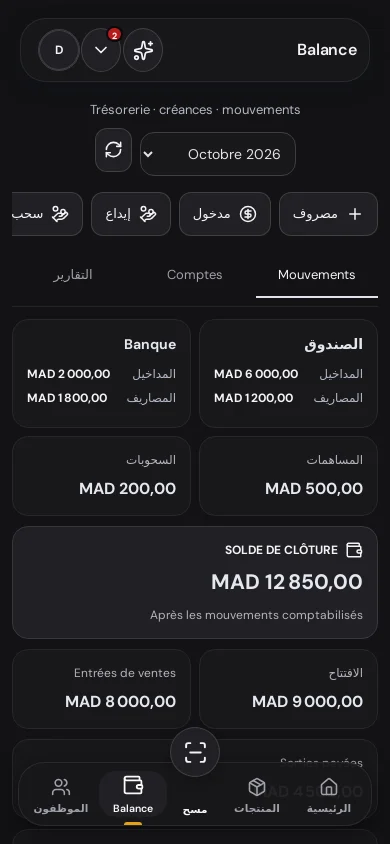
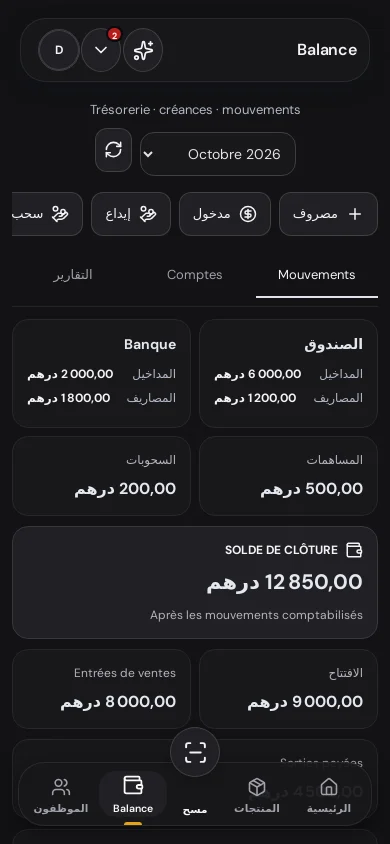
Improve Arabic landing translations and mobile login flow

diff --git a/src/i18n/messages.ts b/src/i18n/messages.ts
@@ -673,4 +673,109 @@ export const MESSAGES: ReadonlyArray<readonly [string, string, string]> = [
   ["Rechercher nom, SKU…", "Search name, SKU…", "البحث بالاسم أو رمز المنتج…"],
   ['Atlas', 'Atlas', 'أطلس'],
   ['Atlas Commerce', 'Atlas Commerce', 'أطلس كوميرس'],
+  // Public landing page and previews
+  ["Votre commerce,", "Your business,", "تجارتك،"],
+  ["en toute clarté.", "in clear view.", "بكل وضوح."],
+  ["Stock, ventes, factures et rapports : retrouvez les outils de votre activité dans un espace commun, sur le web, Android et bureau.", "Stock, sales, invoices and reports: find the tools for your business in one place on web, Android and desktop.", "المخزون والمبيعات والفواتير والتقارير: أدوات نشاطك في مكان واحد على الويب وأندرويد وسطح المكتب."],
+  ["Télécharger pour", "Download for", "تنزيل لـ"],
+  ["Toutes les versions bureau", "All desktop versions", "جميع إصدارات سطح المكتب"],
+  ["Découvrir les fonctionnalités", "Explore features", "اكتشف المزايا"],
+  ["Gratuit · open source (MIT) · aussi sur", "Free · open source (MIT) · also on", "مجاني · مفتوح المصدر (MIT) · متاح أيضاً على"],
+  ["et", "and", "و"],
+  ["Interfaces web sur ordinateur et mobile · données fictives de démonstration", "Web interfaces on desktop and mobile · fictional demonstration data", "واجهات الويب على الكمبيوتر والهاتف · بيانات تجريبية وهمية"],
+  ["Stock & scan", "Stock & scanning", "المخزون والمسح"],
+  ["Suivez vos produits et vos mouvements.", "Track your products and stock movements.", "تابع منتجاتك وحركات المخزون."],
+  ["Vente & facturation", "Sales & invoicing", "المبيعات والفوترة"],
+  ["Du comptoir aux documents commerciaux.", "From the counter to business documents.", "من نقطة البيع إلى المستندات التجارية."],
+  ["Sur vos appareils", "On your devices", "على أجهزتك"],
+  ["Web, Android et application bureau.", "Web, Android and desktop app.", "الويب وأندرويد وتطبيق سطح المكتب."],
+  ["Un projet ouvert que vous pouvez explorer.", "An open project you can explore.", "مشروع مفتوح يمكنك استكشافه."],
+  ["01 / VOTRE ACTIVITÉ", "01 / YOUR BUSINESS", "01 / نشاطك"],
+  ["Les outils essentiels, réunis dans Atlas.", "Essential tools, together in Atlas.", "الأدوات الأساسية، مجتمعة في أطلس."],
+  ["Du catalogue à la facture, retrouvez les informations utiles à chaque étape de votre journée.", "From catalogue to invoice, find useful information at every step of your day.", "من الكتالوج إلى الفاتورة، اعثر على المعلومات المهمة في كل خطوة من يومك."],
+  ["Stock en temps réel", "Real-time stock", "المخزون لحظة بلحظة"],
+  ["Consultez l’inventaire, les seuils et les mouvements de vos produits.", "View inventory, thresholds and product movements.", "اطّلع على المخزون والحدود وحركات المنتجات."],
+  ["Caisse & ventes", "Till & sales", "الصندوق والمبيعات"],
+  ["Ventes comptoir, tickets, règlements partiels et clôture de caisse sans saisie double.", "Counter sales, tickets, partial payments and till closing without duplicate entry.", "مبيعات المتجر والإيصالات والدفعات الجزئية وإغلاق الصندوق دون إدخال مكرر."],
+  ["Facturation PDF", "PDF invoicing", "الفوترة بصيغة PDF"],
+  ["Devis, factures et reçus en PDF propres, avec QR de vérification publique.", "Clean PDF quotes, invoices and receipts with public QR verification.", "عروض الأسعار والفواتير والإيصالات بصيغة PDF مع رمز تحقق عام."],
+  ["Créances & relances", "Receivables & reminders", "المستحقات والتذكيرات"],
+  ["Balance âgée, clients à relancer et historique de paiement — sans Post-it.", "Aged balances, customers to follow up and payment history — without sticky notes.", "أعمار الديون والعملاء المطلوب متابعتهم وسجل الدفعات في مكان واحد."],
+  ["Vérification par QR", "QR verification", "التحقق برمز QR"],
+  ["Vos clients scannent et vérifient l’authenticité d’un reçu en une seconde.", "Your customers can scan and verify a receipt in seconds.", "يمكن لعملائك مسح الإيصال والتحقق من صحته في ثوانٍ."],
+  ["Agent IA intégré", "Built-in AI agent", "وكيل ذكاء اصطناعي مدمج"],
+  ["Posez vos questions en français et explorez vos données selon vos permissions. Exemple fictif ci-dessus.", "Ask questions in French and explore data according to your permissions. Fictional example above.", "اطرح أسئلتك بالفرنسية واستكشف بياناتك وفق صلاحياتك. المثال أعلاه وهمي."],
+  ["02 / AU QUOTIDIEN", "02 / DAY TO DAY", "02 / في عملك اليومي"],
+  ["Moins d’allers-retours. Plus de clarté.", "Less back-and-forth. More clarity.", "تنقل أقل. وضوح أكثر."],
+  ["Une vue d’ensemble pour passer du produit à la vente, puis retrouver les informations qui comptent.", "An overview from product to sale, with the information that matters.", "نظرة شاملة من المنتج إلى البيع، مع المعلومات المهمة في متناولك."],
+  ["Organisez vos produits", "Organise your products", "نظّم منتجاتك"],
+  ["Retrouvez le catalogue, les quantités et les mouvements de stock au même endroit.", "Find your catalogue, quantities and stock movements in one place.", "اعثر على الكتالوج والكميات وحركات المخزون في مكان واحد."],
+  ["Enregistrez vos ventes", "Record your sales", "سجّل مبيعاتك"],
+  ["Suivez les règlements et préparez vos documents commerciaux.", "Track payments and prepare your business documents.", "تابع الدفعات وأعد مستنداتك التجارية."],
+  ["Gardez une vue d’ensemble", "Keep an overview", "احتفظ بنظرة شاملة"],
+  ["Consultez vos rapports et posez vos questions à l’agent IA selon vos accès.", "View reports and ask the AI agent questions according to your access.", "اطّلع على تقاريرك واسأل وكيل الذكاء الاصطناعي وفق صلاحياتك."],
+  ["La confiance, d’abord", "Trust comes first", "الثقة أولاً"],
+  ["Connexion OTP & passkeys", "OTP & passkey sign-in", "تسجيل الدخول برمز مؤقت ومفاتيح المرور"],
+  ["Codes à usage unique et WebAuthn/FIDO2 pour les parcours pris en charge.", "One-time codes and WebAuthn/FIDO2 for supported flows.", "رموز تستخدم مرة واحدة وWebAuthn/FIDO2 للطرق المدعومة."],
+  ["Android hors-ligne", "Android offline", "أندرويد دون اتصال"],
+  ["Des fonctions hors ligne avec synchronisation au retour du réseau, selon la version.", "Offline features sync when connectivity returns, depending on the version.", "وظائف دون اتصال تتزامن عند عودة الشبكة بحسب الإصدار."],
+  ["Données souveraines", "Data ownership", "السيادة على البيانات"],
+  ["En auto-hébergement, utilisez D1/R2 dans votre compte Cloudflare et configurez vos sauvegardes.", "When self-hosting, use D1/R2 in your Cloudflare account and configure backups.", "عند الاستضافة الذاتية، استخدم D1/R2 في حساب Cloudflare واضبط النسخ الاحتياطية."],
+  ["100 % open source", "100% open source", "مفتوح المصدر بنسبة 100٪"],
+  ["Code MIT auditable, auto-hébergement possible, zéro lock-in.", "Auditable MIT code, optional self-hosting, no lock-in.", "شفرة MIT قابلة للتدقيق واستضافة ذاتية اختيارية دون احتكار."],
+  ["QR public vérifiable", "Verifiable public QR", "رمز QR عام قابل للتحقق"],
+  ["Les documents compatibles peuvent être vérifiés par QR sans compte.", "Supported documents can be verified by QR without an account.", "يمكن التحقق من المستندات المدعومة برمز QR دون حساب."],
+  ["Sans commission", "No commission", "دون عمولة"],
+  ["Aucun pourcentage sur vos ventes : le logiciel ne vit pas de votre chiffre.", "No percentage of your sales: the software does not take a cut.", "لا تُقتطع أي نسبة من مبيعاتك."],
+  ["03 / VOS APPAREILS", "03 / YOUR DEVICES", "03 / أجهزتك"],
+  ["Atlas vous suit, du terrain au comptoir.", "Atlas follows you from the floor to the counter.", "أطلس يرافقك من الميدان إلى نقطة البيع."],
+  ["Choisissez l’interface adaptée à votre journée et retrouvez votre espace de travail.", "Choose the interface that suits your day and find your workspace.", "اختر الواجهة المناسبة ليومك وافتح مساحة عملك."],
+  ["Web mobile · données fictives", "Mobile web · fictional data", "ويب الهاتف · بيانات وهمية"],
+  ["Web sur ordinateur · données fictives", "Desktop web · fictional data", "ويب الكمبيوتر · بيانات وهمية"],
+  ["Ouvrir l’application", "Open the app", "فتح التطبيق"],
+  ["Télécharger l’APK", "Download APK", "تنزيل APK"],
+  ["Version bureau", "Desktop version", "نسخة سطح المكتب"],
+  ["Construit en public", "Built in public", "بُني بصورة مفتوحة"],
+  ["Voir le dépôt →", "View repository →", "عرض المستودع ←"],
+  ["Questions fréquentes", "Frequently asked questions", "الأسئلة الشائعة"],
+  ["Prêt à tenir votre commerce la bonne façon ?", "Ready to run your business the right way?", "هل أنت مستعد لإدارة تجارتك بطريقة أفضل؟"],
+  ["Retrouvez vos produits, vos ventes et vos clients au même endroit.", "Find your products, sales and customers in one place.", "اعثر على منتجاتك ومبيعاتك وعملائك في مكان واحد."],
+  ["Partielle", "Partial", "جزئية"],
+  ["À régler", "Due", "مستحق"],
+  ["Vérifié", "Verified", "تم التحقق"],
+  ["Combien de ventes cette semaine ?", "How many sales this week?", "كم عدد المبيعات هذا الأسبوع؟"],
+  ["Demandez à Atlas…", "Ask Atlas…", "اسأل أطلس…"],
+  ["En stock", "In stock", "متوفر"],
+  // Public platform and FAQ copy
+  ["Aller au contenu", "Skip to content", "انتقل إلى المحتوى"],
+  ["Fonctionnalités", "Features", "المزايا"],
+  ["Plateformes", "Platforms", "المنصات"],
+  ["3 tickets", "3 tickets", "3 إيصالات"],
+  ["· aujourd’hui", "· today", "· اليوم"],
+  ["Comptoir", "Counter", "نقطة البيع"],
+  ["Courant", "Current", "الحالي"],
+  ["Cette semaine :", "This week:", "هذا الأسبوع:"],
+  ["23 ventes", "23 sales", "23 عملية بيع"],
+  [", +12 % vs la semaine dernière.", ", +12% vs last week.", "، بزيادة 12٪ عن الأسبوع الماضي."],
+  ["Chrome, Edge, Safari et Firefox. Le PWA s’installe sur l’écran d’accueil et fonctionne aussi en mode autonome — téléphone, tablette, pliable, Chromebook et grand écran de bureau.", "Chrome, Edge, Safari and Firefox. Install the PWA on your home screen and use it standalone on phones, tablets, foldables, Chromebooks and desktop screens.", "يعمل على Chrome وEdge وSafari وFirefox. ثبّت تطبيق الويب على الشاشة الرئيسية واستخدمه مستقلاً على الهواتف والأجهزة اللوحية والقابلة للطي وChromebook وشاشات الكمبيوتر."],
+  ["Application native pour le stock, les ventes et le scan, avec des fonctions hors ligne et une synchronisation au retour du réseau. Téléchargez l’APK depuis la page officielle.", "Native app for stock, sales and scanning, with offline features and sync when the network returns. Download the APK from the official page.", "تطبيق أصلي للمخزون والمبيعات والمسح، مع وظائف دون اتصال ومزامنة عند عودة الشبكة. نزّل APK من الصفحة الرسمية."],
+  ["Windows, macOS et Linux : retrouvez votre espace Atlas dans une fenêtre dédiée. Consultez les versions disponibles pour votre ordinateur.", "Windows, macOS and Linux: access your Atlas workspace in a dedicated window. See the versions available for your computer.", "على Windows وmacOS وLinux: افتح مساحة أطلس في نافذة مستقلة. اطّلع على الإصدارات المتاحة لكمبيوترك."],
+  ["Atlas Commerce · web", "Atlas Commerce · web", "أطلس كوميرس · الويب"],
+  ["Atlas Desktop", "Atlas Desktop", "أطلس لسطح المكتب"],
+  ["React + Cloudflare Worker + D1. Toute la logique métier, l’OTP, les passkeys, la facturation et les rapports — sous licence MIT.", "React + Cloudflare Worker + D1. Business logic, OTP, passkeys, invoicing and reports — MIT licensed.", "React وCloudflare Worker وD1. منطق العمل والرموز المؤقتة ومفاتيح المرور والفوترة والتقارير — بترخيص MIT."],
+  ["Le client bureau natif en Rust (Windows, macOS, Linux) : fenêtre dédiée, coffre système et mises à jour vérifiées via CDN1.", "Native Rust desktop client (Windows, macOS, Linux): a dedicated window, system vault and verified updates via CDN1.", "تطبيق سطح مكتب أصلي بلغة Rust على Windows وmacOS وLinux: نافذة مستقلة وخزنة النظام وتحديثات موثّقة عبر CDN1."],
+  ["Une étoile sur les dépôts aide le projet · MIT © 2026 Etherealmber", "A star on the repositories helps the project · MIT © 2026 Etherealmber", "نجمة على المستودعات تدعم المشروع · MIT © 2026 Etherealmber"],
+  ["L’application est-elle vraiment gratuite ?", "Is the app really free?", "هل التطبيق مجاني حقاً؟"],
+  ["Oui. Atlas est open source sous licence MIT : vous pouvez l’utiliser, l’auditer et l’auto-héberger librement. Aucune commission sur vos ventes, aucun abonnement caché.", "Yes. Atlas is open source under MIT: use, audit and self-host it freely. No sales commission or hidden subscription.", "نعم. أطلس مفتوح المصدر بترخيص MIT: يمكنك استخدامه وتدقيقه واستضافته ذاتياً بحرية، دون عمولة على المبيعات أو اشتراك خفي."],
+  ["Sur quels appareils puis-je l’utiliser ?", "Which devices can I use it on?", "على أي أجهزة يمكنني استخدامه؟"],
+  ["Sur le web (Chrome, Edge, Safari, Firefox), en PWA installé, sur Android (APK natif hors-ligne) et sur ordinateur avec l’application bureau Windows, macOS ou Linux. Les téléphones pliables, tablettes, Chromebooks et grands écrans sont pris en charge.", "On the web, as an installed PWA, on Android and through the desktop app for Windows, macOS or Linux. Foldables, tablets, Chromebooks and large screens are supported.", "على الويب وكتطبيق ويب مثبت وعلى أندرويد وعبر تطبيق سطح المكتب لنظام Windows أو macOS أو Linux. تدعم الأجهزة القابلة للطي والأجهزة اللوحية وChromebook والشاشات الكبيرة."],
+  ["Puis-je travailler sans connexion ?", "Can I work offline?", "هل يمكنني العمل دون اتصال؟"],
+  ["L’application Android propose des fonctions hors ligne avec synchronisation au retour du réseau. La disponibilité dépend de la version et des opérations utilisées.", "The Android app offers offline features that sync when connectivity returns. Availability depends on the version and operations used.", "يوفر تطبيق أندرويد وظائف دون اتصال تتزامن عند عودة الشبكة. يعتمد توفرها على الإصدار والعمليات المستخدمة."],
+  ["Mes données sont-elles en sécurité ?", "Is my data secure?", "هل بياناتي آمنة؟"],
+  ["La connexion utilise notamment des codes OTP et, pour les parcours compatibles, des passkeys (WebAuthn/FIDO2). En auto-hébergement, les données vivent dans votre compte Cloudflare (D1/R2), avec sauvegardes chiffrées et politique de divulgation responsable.", "Sign-in uses OTP and, where supported, passkeys (WebAuthn/FIDO2). When self-hosted, data is in your Cloudflare account (D1/R2), with encrypted backups and responsible disclosure.", "يستخدم تسجيل الدخول رموزاً مؤقتة ومفاتيح المرور للطرق المدعومة. عند الاستضافة الذاتية، تُحفظ البيانات في حساب Cloudflare الخاص بك مع نسخ احتياطية مشفرة وسياسة إفصاح مسؤول."],
+  ["Comment se passent les mises à jour ?", "How do updates work?", "كيف تعمل التحديثات؟"],
+  ["Le web se met à jour automatiquement. L’application bureau (Windows, macOS et Linux) et l’application Android vérifient leurs manifestes signés sur CDN1, et les installateurs officiels restent accessibles sur", "The web updates automatically. The desktop and Android apps verify signed manifests on CDN1; official installers remain available on", "يتحدث الويب تلقائياً. يتحقق تطبيق سطح المكتب وتطبيق أندرويد من بيانات التحديث الموقعة على CDN1، وتتوفر ملفات التثبيت الرسمية على"],
+  ["la page Bureau", "the Desktop page", "صفحة سطح المكتب"],
+  ["la page Android", "the Android page", "صفحة أندرويد"],
+  ["Sécurité", "Security", "الأمان"],
 ];

diff --git a/src/i18n/dom.ts b/src/i18n/dom.ts
@@ -45,6 +45,12 @@ function hasLetters(s: string) {
   return /[A-Za-zÀ-ÿ]/.test(s);
 }
 
+/** Localise currency labels in presentation text only; API values stay ISO MAD. */
+function translateDisplay(src: string, lang: Lang) {
+  const out = translate(src, lang);
+  return lang === 'ar' ? out.replace(/\b(?:MAD|DH)\b/g, 'درهم') : out;
+}
+
 function translateText(node: Text, lang: Lang) {
   const value = node.nodeValue ?? '';
   const st = textState.get(node);
@@ -57,7 +63,7 @@ function translateText(node: Text, lang: Lang) {
     return;
   }
   if (node.parentElement && skipped(node.parentElement)) return;
-  const out = translate(src, lang);
+  const out = translateDisplay(src, lang);
   textState.set(node, { src, out });
   if (out !== value) node.nodeValue = out;
 }
@@ -75,7 +81,7 @@ function translateAttrs(el: Element, lang: Lang) {
       if (states) delete states[a];
       continue;
     }
-    const out = translate(src, lang);
+    const out = translateDisplay(src, lang);
     if (!states) { states = {}; attrState.set(el, states); }
     states[a] = { src, out };
     if (out !== value) el.setAttribute(a, out);
@@ -84,7 +90,7 @@ function translateAttrs(el: Element, lang: Lang) {
   if (el instanceof HTMLInputElement && (el.type === 'button' || el.type === 'submit' || el.type === 'reset') && el.value) {
     const st = states?.value;
     const src = st && el.value === st.out ? st.src : el.value;
-    const out = lang === 'fr' ? src : translate(src, lang);
+    const out = lang === 'fr' ? src : translateDisplay(src, lang);
     if (!states) { states = {}; attrState.set(el, states); }
     states.value = { src, out };
     if (out !== el.value) el.value = out;
@@ -151,7 +157,7 @@ function translateTitle(lang: Lang) {
   const cur = document.title;
   const src = cur === titleOut && titleSrc ? titleSrc : cur;
   titleSrc = src;
-  titleOut = lang === 'fr' ? src : translate(src, lang);
+  titleOut = lang === 'fr' ? src : translateDisplay(src, lang);
   if (titleOut !== cur) document.title = titleOut;
 }
 

diff --git a/src/__tests__/public-download-nav.test.ts b/src/__tests__/public-download-nav.test.ts
@@ -5,11 +5,12 @@ import { MemoryRouter } from 'react-router-dom';
 import { afterEach, beforeEach, expect, it } from 'vitest';
 import { PublicNav } from '../components/PublicChrome';
 import DownloadPreview from '../components/DownloadPreview';
+import { setLang } from '../i18n/core';
 
 let host: HTMLDivElement;
 let root: ReturnType<typeof createRoot>;
 beforeEach(() => { (globalThis as any).IS_REACT_ACT_ENVIRONMENT = true; host = document.createElement('div'); document.body.appendChild(host); root = createRoot(host); localStorage.clear(); });
-afterEach(async () => { await act(async () => root.unmount()); host.remove(); localStorage.clear(); });
+afterEach(async () => { await act(async () => root.unmount()); setLang('fr'); host.remove(); localStorage.clear(); });
 
 it('opens its accessible menu and closes it on Escape or outside interaction', async () => {
   await act(async () => root.render(createElement(MemoryRouter, { children: createElement(PublicNav, { classic: true, links: [{ href: '/desktop', label: 'Bureau' }] }) })));
@@ -22,6 +23,15 @@ it('opens its accessible menu and closes it on Escape or outside interaction', a
   await act(async () => toggle.click());
   await act(async () => document.body.dispatchEvent(new PointerEvent('pointerdown', { bubbles: true })));
   expect(toggle.getAttribute('aria-expanded')).toBe('false');
+});
+
+it('shows the current language in the public language button', async () => {
+  await act(async () => root.render(createElement(MemoryRouter, { children: createElement(PublicNav, { classic: true, links: [] }) })));
+  expect(host.querySelector('.public-lang-code')?.textContent).toBe('FR');
+  await act(async () => setLang('ar'));
+  expect(host.querySelector('.public-lang-code')?.textContent).toBe('AR');
+  await act(async () => setLang('en'));
+  expect(host.querySelector('.public-lang-code')?.textContent).toBe('EN');
 });
 
 it('uses separate, labelled Android and computer previews', async () => {

diff --git a/src/pages/Login.tsx b/src/pages/Login.tsx
@@ -404,7 +404,7 @@ export default function Login() {
   // v0.7 — never prefill an identity: the field starts empty (placeholder only).
   const [username, setUsername] = useState('');
   const [password, setPassword] = useState('');
-  const [usernameConfirmed, setUsernameConfirmed] = useState(false);
+  const [usernameConfirmed, setUsernameConfirmed] = useState(() => !isMobileLogin() && !isNativeClient());
   const [otp, setOtp] = useState('');
   const [step, setStep] = useState<'password' | 'otp'>('password');
   const [loading, setLoading] = useState(false);
@@ -1050,7 +1050,7 @@ export default function Login() {
                 }
               }}
             >
-              {!usernameConfirmed ? <div className="atlas-field">
+              {(!usernameConfirmed || (!isMobileLogin() && !isNativeClient())) && <div className="atlas-field">
                 <label htmlFor="username">Identifiant</label>
                 <input
                   id="username"
@@ -1065,11 +1065,12 @@ export default function Login() {
                   autoComplete="username"
                   disabled={loading || formLocked}
                 />
-              </div> : <>
-              <div className="atlas-login-identity">
+              </div>}
+              {usernameConfirmed && <>
+              {(isMobileLogin() || isNativeClient()) && <div className="atlas-login-identity">
                 <span translate="no">{username}</span>
                 <button type="button" onClick={() => { pendingSubmitAt.current = 0; setUsernameConfirmed(false); setPassword(''); setError(''); }} disabled={loading}>Modifier</button>
-              </div>
+              </div>}
               <div className="atlas-field">
                 <label htmlFor="password">
                   Mot de passe{deviceTrusted ? ' (appareil de confiance)' : ''}

diff --git a/src/styles/rtl.css b/src/styles/rtl.css
@@ -167,3 +167,19 @@ html[dir="rtl"] body .atlas-agent-panel:not(.open):not(#rtl-g):not(#rtl-h) {
   transform: translateX(-100%) !important;
 }
 html[dir="rtl"] body .atlas-agent-panel .atlas-agent-resize { left: auto; right: 0; }
+
+/* Keep references and numeric cells legible left-to-right inside Arabic copy. */
+html[dir="rtl"] :is(.hl-num, .hl-amt, .hl-pref, .hl-pmeta, .hl-tot, .hl-line i, .hl-line b, .ph-catalog-price, .ac-number-link, .phone-invoice-page td.num) {
+  direction: ltr;
+  unicode-bidi: isolate;
+  text-align: start;
+}
+html[dir="rtl"] .home-landing :is(.hm-hero-copy, .hm-section-heading, .hm-bento-card, .dl-card, .hm-steps) { text-align: start; }
+html[dir="rtl"] .home-landing :is(.hm-headline-first, .hm-headline-second) { letter-spacing: 0; }
+html[dir="rtl"] .home-landing :is(.hm-start, .dl-chip) svg { transform: scaleX(-1); }
+/* Explicit contrast: the login is dark even if the rest of the site is light. */
+html body .ac-login-lang:not(#lang-g):not(#lang-h):not(#lang-i) { background: #fff !important; border-color: #d4d4d8 !important; direction: ltr; }
+html body .ac-login-lang > button:not(#lang-g):not(#lang-h):not(#lang-i) { color: #475569 !important; -webkit-text-fill-color: currentColor !important; }
+html body .ac-login-lang > button[aria-pressed="true"]:not(#lang-g):not(#lang-h):not(#lang-i) { background: #111827 !important; color: #fff !important; -webkit-text-fill-color: #fff !important; }
+html body .ac-login-lang > button:not(#lang-g):not(#lang-h):not(#lang-i) { min-height: 40px !important; height: auto !important; padding: 0 14px !important; }
+html body .ac-login-lang > button:focus-visible:not(#lang-g):not(#lang-h):not(#lang-i) { outline: 2px solid #2563eb !important; outline-offset: 2px; }

diff --git a/src/components/PublicChrome.tsx b/src/components/PublicChrome.tsx
@@ -9,6 +9,7 @@ import { resetWelcome } from '../lib/welcome';
 import { useProfileWarm, useProfileTick } from '../lib/useProfileWarm';
 import { TopbarUserMenu } from './shell/TopbarUserMenu';
 import { LanguageSoonDialog } from './LanguageSoonDialog';
+import { useLang } from '../i18n/core';
 
 
 /* ------------------------------------------------------------------ */
@@ -157,6 +158,7 @@ function PublicThemeToggle() {
  *  « Bientôt — l’arabe et l’anglais arrivent ». */
 function PublicLanguageButton() {
   const [open, setOpen] = useState(false);
+  const lang = useLang();
   if (isLoggedIn()) return null;
   return (
     <>
@@ -172,7 +174,7 @@ function PublicLanguageButton() {
           <svg width="16" height="16" viewBox="0 0 24 24" fill="none" stroke="currentColor" strokeWidth="2" strokeLinecap="round" strokeLinejoin="round" aria-hidden>
             <path d="m5 8 6 6M4 14l6-6 2-3M2 5h12M7 2h1M22 22l-5-10-5 10M14 18h6" />
           </svg>
-          <span className="public-lang-code">FR</span>
+          <span className="public-lang-code" translate="no">{lang.toUpperCase()}</span>
         </button>
       </div>
       <LanguageSoonDialog open={open} onClose={() => setOpen(false)} />

diff --git a/src/__tests__/login-turnstile.test.ts b/src/__tests__/login-turnstile.test.ts
@@ -84,6 +84,15 @@ describe('login Turnstile', () => {
     expect(container.querySelector<HTMLInputElement>('#username')!.value).toBe('test');
     expect(container.querySelector('#password')).toBeNull();
   });
+  it('shows username and password together on desktop', async () => {
+    Object.defineProperty(window, 'matchMedia', { configurable: true, value: () => ({ matches: false, addListener() {}, removeListener() {}, addEventListener() {}, removeEventListener() {} }) });
+    (window as any).turnstile = { render: vi.fn(() => 'desktop-id'), remove: vi.fn() };
+    await mount(false);
+    expect(container.querySelector('#username')).not.toBeNull();
+    expect(container.querySelector('#password')).not.toBeNull();
+    expect(container.querySelector('#cf-turnstile')).not.toBeNull();
+    expect(container.querySelector('.atlas-login-identity')).toBeNull();
+  });
   it('renders a compact mobile widget and cleans it up on unmount', async () => {
     vi.spyOn(HTMLElement.prototype, 'clientWidth', 'get').mockReturnValue(240);
     const remove = vi.fn();

diff --git a/src/__tests__/i18n-core.test.ts b/src/__tests__/i18n-core.test.ts
@@ -61,6 +61,16 @@ describe('i18n core', () => {
     expect(document.documentElement.dir).toBe('ltr');
   });
 
+  it('localises currency labels in Arabic without changing user data, and restores them', async () => {
+    document.body.innerHTML = '<div><span class="amount">1 260 MAD</span><span data-user-data>Model MAD 12</span><span class="dh">42 DH</span></div>';
+    setLang('ar'); retranslateAll(); await tick();
+    expect(document.querySelector('.amount')!.textContent).toBe('1 260 درهم');
+    expect(document.querySelector('.dh')!.textContent).toBe('42 درهم');
+    expect(document.querySelector('[data-user-data]')!.textContent).toBe('Model MAD 12');
+    setLang('en'); await tick();
+    expect(document.querySelector('.amount')!.textContent).toBe('1 260 MAD');
+  });
+
   it('accepts a language pushed by the native Android shell', () => {
     (window as unknown as { atlasSetLanguage: (l: string) => void }).atlasSetLanguage('en');
     expect(getLang()).toBe('en');

diff --git a/src/styles/login-auth.css b/src/styles/login-auth.css
@@ -951,3 +951,10 @@ html.atlas-login-page .atlas-login-identity button {
   border: 0; background: transparent; color: inherit; text-decoration: underline;
   padding: 6px; cursor: pointer; font: inherit;
 }
+/* The desktop form lives on a dark card, regardless of the page theme. */
+html.atlas-login-page body .atlas-login.atlas-login--auth7:not(.atlas-login--phone) .atlas-login-submit {
+  background: #fafafa !important; color: #111827 !important;
+}
+html.atlas-login-page body .atlas-login.atlas-login--auth7:not(.atlas-login--phone) .atlas-login-submit :is(span, svg) {
+  color: #111827 !important; stroke: #111827 !important;
+}
